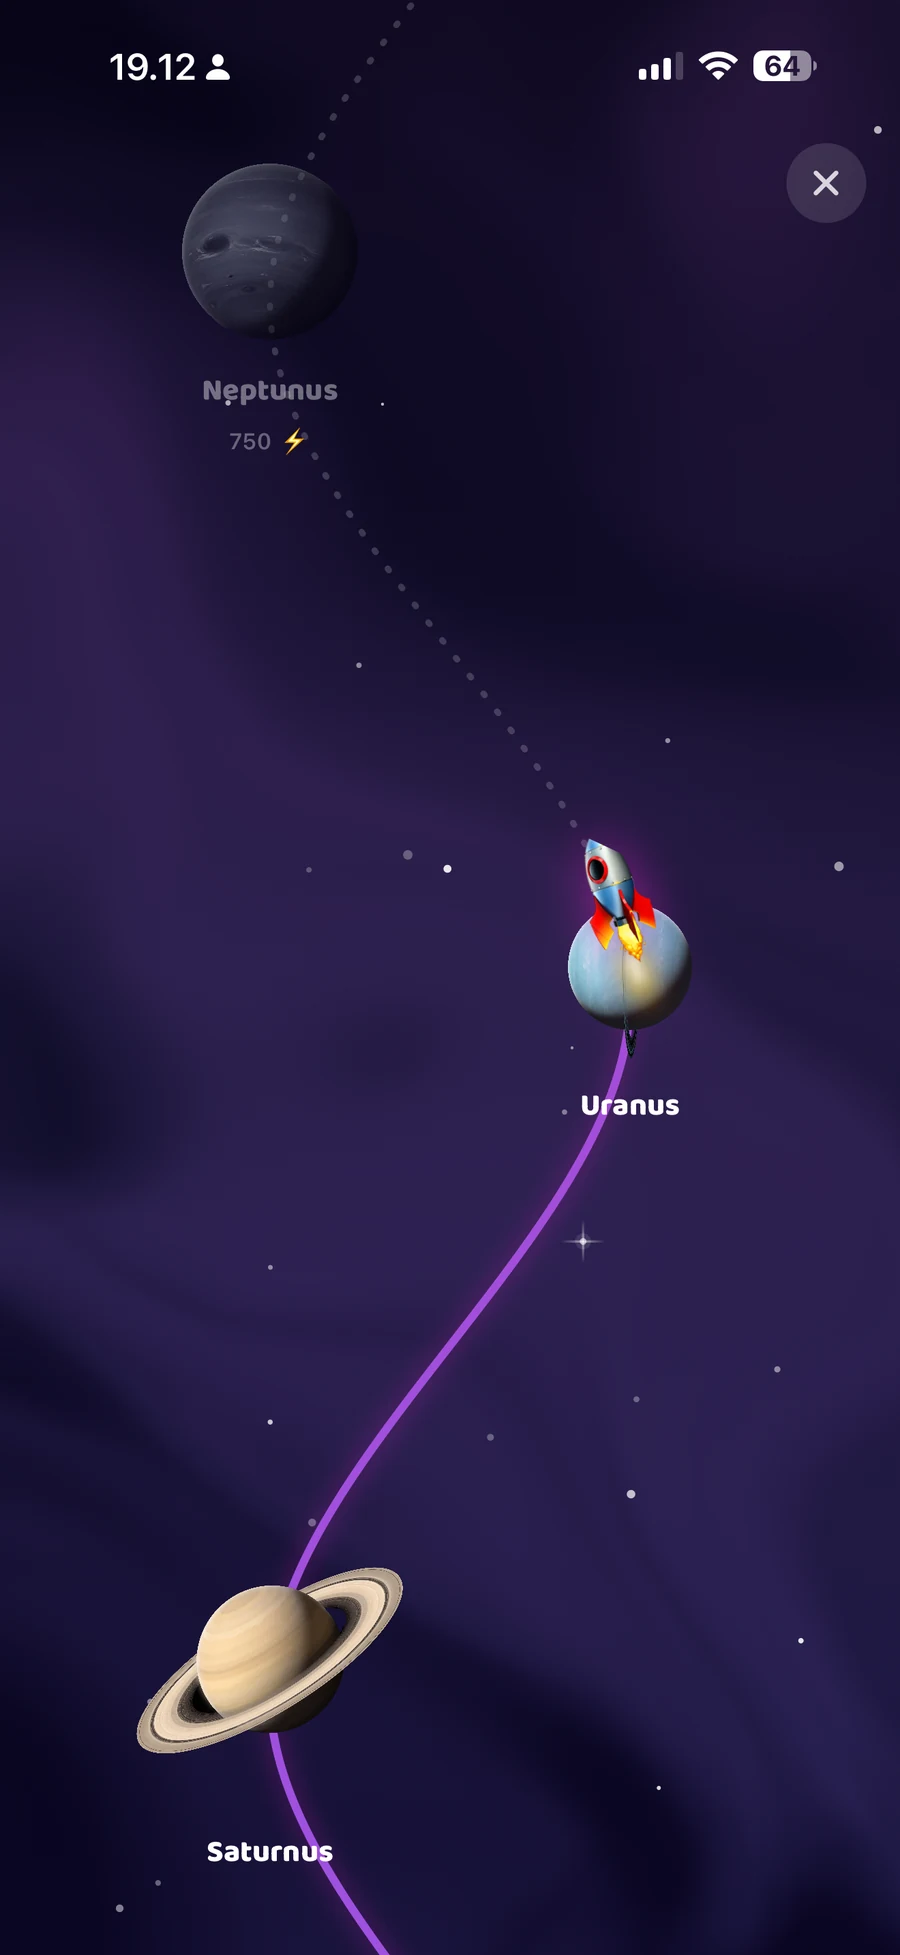
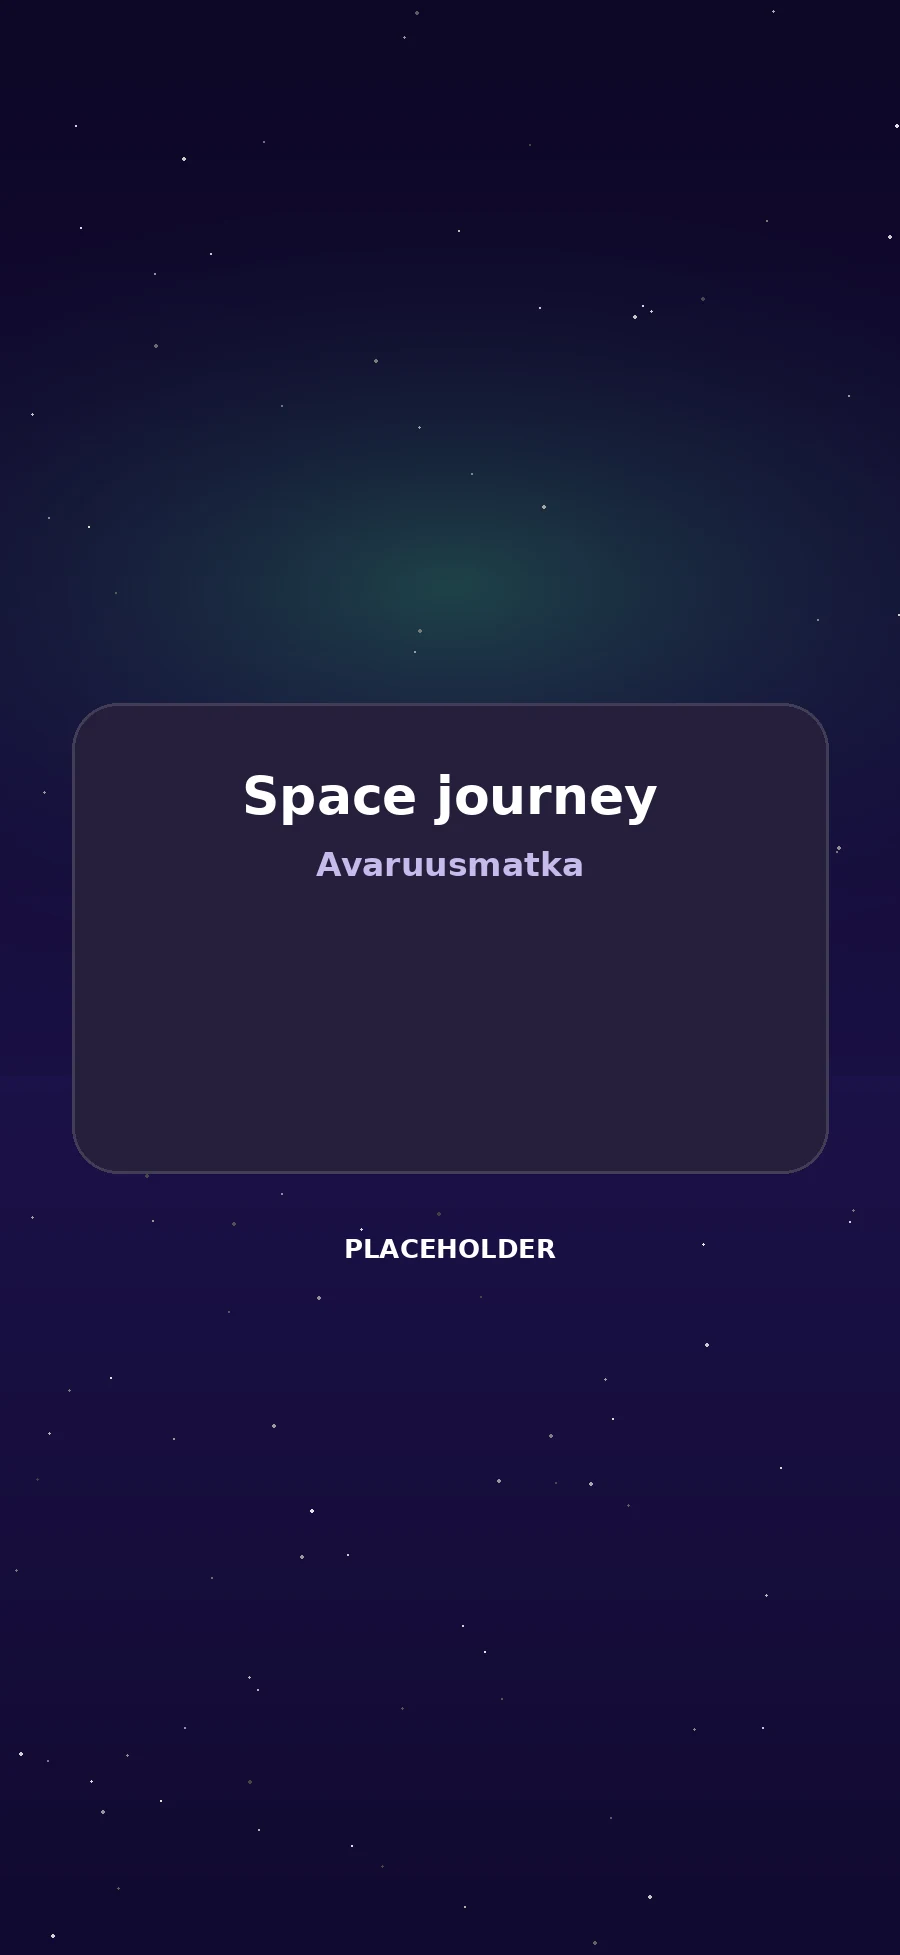
Update playstore

diff --git a/en/index.html b/en/index.html
@@ -29,7 +29,7 @@
 <link rel="preconnect" href="https://fonts.googleapis.com">
 <link rel="preconnect" href="https://fonts.gstatic.com" crossorigin>
 <link href="https://fonts.googleapis.com/css2?family=Baloo+2:wght@600;700;800&display=swap" rel="stylesheet">
-<link rel="stylesheet" href="../assets/style.css?v=29">
+<link rel="stylesheet" href="../assets/style.css?v=31">
 <script type="application/ld+json">
 {
   "@context": "https://schema.org",
@@ -63,16 +63,6 @@
     </a>
 
     <span class="header-spacer"></span>
-
-    <nav class="lang" aria-label="Language">
-      <a href="/" hreflang="fi">FI</a>
-      <a href="/en/" aria-current="page" hreflang="en">EN</a>
-    </nav>
-
-    <a class="btn btn-small is-pending" href="#" role="button" aria-disabled="true"
-       data-appstore data-live="App Store">
-      <span class="btn-label">App Store</span>
-    </a>
   </div>
 </header>
 
@@ -88,12 +78,15 @@
         Will·e turns playing into studying, and studying into something worth playing.
       </p>
 
-      <div class="store-row reveal">
-        <a class="btn is-pending" href="#" role="button" aria-disabled="true"
-           data-appstore data-live="Download on the App Store">
-          <span class="btn-label">Coming autumn 2026</span>
+      <div class="store-badges reveal">
+        <a class="store-badge" href="https://apps.apple.com/app/id6776587160" rel="noopener">
+          <img src="../assets/badges/appstore-en.svg" height="56" alt="Download on the App Store">
+        </a>
+        <a class="store-badge" href="https://play.google.com/store/apps/details?id=fi.wille.wille" rel="noopener">
+          <img src="../assets/badges/googleplay-en.png" height="56" alt="Get it on Google Play">
         </a>
       </div>
+      <p class="store-tagline reveal"><span>Start for free</span></p>
 
       <div class="hero-figure hero-figure--anim glow-wrap reveal">
         <canvas class="hero-canvas" width="912" height="1808" aria-hidden="true"></canvas>
@@ -322,6 +315,6 @@
   </div>
 </footer>
 
-<script src="../assets/site.js?v=29"></script>
+<script src="../assets/site.js?v=31"></script>
 </body>
 </html>

diff --git a/index.html b/index.html
@@ -53,7 +53,7 @@
 <link rel="preconnect" href="https://fonts.googleapis.com">
 <link rel="preconnect" href="https://fonts.gstatic.com" crossorigin>
 <link href="https://fonts.googleapis.com/css2?family=Baloo+2:wght@600;700;800&display=swap" rel="stylesheet">
-<link rel="stylesheet" href="assets/style.css?v=30">
+<link rel="stylesheet" href="assets/style.css?v=31">
 <script type="application/ld+json">
 {
   "@context": "https://schema.org",
@@ -93,16 +93,6 @@
     </a>
 
     <span class="header-spacer"></span>
-
-    <nav class="lang" aria-label="Kieli">
-      <a href="/" aria-current="page" hreflang="fi">FI</a>
-      <a href="/en/" hreflang="en">EN</a>
-    </nav>
-
-    <a class="btn btn-small is-pending" href="#" role="button" aria-disabled="true"
-       data-appstore data-live="App Store">
-      <span class="btn-label">App Store</span>
-    </a>
   </div>
 </header>
 
@@ -118,12 +108,15 @@
         Will·e muuttaa pelaamisen opiskeluksi ja opiskelun hauskaksi pelaamiseksi.
       </p>
 
-      <div class="store-row reveal">
-        <a class="btn is-pending" href="#" role="button" aria-disabled="true"
-           data-appstore data-live="Lataa App Storesta">
-          <span class="btn-label">Tulossa syksyllä 2026</span>
+      <div class="store-badges reveal">
+        <a class="store-badge" href="https://apps.apple.com/app/id6776587160" rel="noopener">
+          <img src="assets/badges/appstore-fi.svg" height="56" alt="Lataa App Storesta">
+        </a>
+        <a class="store-badge" href="https://play.google.com/store/apps/details?id=fi.wille.wille" rel="noopener">
+          <img src="assets/badges/googleplay-fi.png" height="56" alt="Lataa se Google Playsta">
         </a>
       </div>
+      <p class="store-tagline reveal"><span>Aloita ilmaiseksi</span></p>
 
       <div class="hero-figure hero-figure--anim glow-wrap reveal">
         <canvas class="hero-canvas" width="912" height="1808" aria-hidden="true"></canvas>
@@ -352,6 +345,6 @@
   </div>
 </footer>
 
-<script src="assets/site.js?v=30"></script>
+<script src="assets/site.js?v=31"></script>
 </body>
 </html>

diff --git a/assets/style.css b/assets/style.css
@@ -960,3 +960,51 @@ p { margin: 0; }
 }
 
 .hero-canvas { position: relative; z-index: 1; }
+
+
+/* --- 23. Kauppamerkit herossa ------------------------------------------- */
+/* Viralliset App Store- ja Google Play -merkit. Merkkejä ei saa muokata,
+   joten kultahehku tehdään drop-shadow-suotimella merkin ympärille —
+   se seuraa merkin pyöristettyjä kulmia, ei suorakulmiota. Molemmat
+   samankorkuisia, kuten kauppojen ohjeet edellyttävät. */
+.store-badges {
+  display: flex;
+  flex-wrap: wrap;
+  justify-content: center;
+  gap: 14px;
+  margin-top: 30px;
+}
+.store-badge {
+  display: block;
+  border-radius: 10px;
+  transition: transform .2s ease, filter .2s ease;
+  filter: drop-shadow(0 0 14px rgba(255, 190, 35, .38))
+          drop-shadow(0 0 32px rgba(255, 165, 20, .22));
+}
+.store-badge img {
+  display: block;
+  height: clamp(40px, 11.4vw, 56px);
+  width: auto;
+}
+.store-badge:hover {
+  transform: translateY(-2px);
+  filter: drop-shadow(0 0 18px rgba(255, 190, 35, .55))
+          drop-shadow(0 0 40px rgba(255, 165, 20, .32));
+}
+.store-tagline {
+  display: flex;
+  align-items: center;
+  justify-content: center;
+  gap: 14px;
+  margin-top: 18px;
+  font-size: 15px;
+  color: var(--text-2);
+}
+.store-tagline::before,
+.store-tagline::after {
+  content: "";
+  width: 44px;
+  height: 1px;
+  background: currentColor;
+  opacity: .45;
+}

diff --git a/assets/site.js b/assets/site.js
@@ -197,12 +197,12 @@ var APP_STORE_URL = "https://apps.apple.com/app/id6776587160";
   })();
 
   /* --- 4. Kielivalinnan muistaminen -------------------------------------- */
-  /* Kun kävijä klikkaa FI tai EN, valinta talletetaan ja juurisivun
+  /* Kun kävijä vaihtaa kieltä (alatunnisteen In English / Suomeksi), valinta talletetaan ja juurisivun
      automaattinen kieliohjaus noudattaa sitä jatkossa. Kirjoitus on
      synkroninen, joten se ehtii tallentua ennen siirtymää. */
 
   Array.prototype.forEach.call(
-    document.querySelectorAll(".lang a[hreflang]"),
+    document.querySelectorAll(".lang a[hreflang], .footer-links a[hreflang]"),
     function (a) {
       a.addEventListener("click", function () {
         try { localStorage.setItem("wille-kieli", a.getAttribute("hreflang")); }

diff --git a/404.html b/404.html
@@ -15,7 +15,7 @@
 <link rel="preconnect" href="https://fonts.googleapis.com">
 <link rel="preconnect" href="https://fonts.gstatic.com" crossorigin>
 <link href="https://fonts.googleapis.com/css2?family=Baloo+2:wght@600;700;800&display=swap" rel="stylesheet">
-<link rel="stylesheet" href="/assets/style.css?v=30">
+<link rel="stylesheet" href="/assets/style.css?v=31">
 
 <style>
   /* Vain tällä sivulla: sisältö keskelle näyttöä pystysuunnassa. */
@@ -103,6 +103,6 @@
   </div>
 </footer>
 
-<script src="/assets/site.js?v=30"></script>
+<script src="/assets/site.js?v=31"></script>
 </body>
 </html>

diff --git a/delete-account/index.html b/delete-account/index.html
@@ -27,7 +27,7 @@
 <link rel="preconnect" href="https://fonts.googleapis.com">
 <link rel="preconnect" href="https://fonts.gstatic.com" crossorigin>
 <link href="https://fonts.googleapis.com/css2?family=Baloo+2:wght@600;700;800&display=swap" rel="stylesheet">
-<link rel="stylesheet" href="/assets/style.css?v=30">
+<link rel="stylesheet" href="/assets/style.css?v=31">
 </head>
 
 <body class="legal-page">
@@ -149,6 +149,6 @@
   </div>
 </footer>
 
-<script src="/assets/site.js?v=30"></script>
+<script src="/assets/site.js?v=31"></script>
 </body>
 </html>

diff --git a/poista-tili/index.html b/poista-tili/index.html
@@ -27,7 +27,7 @@
 <link rel="preconnect" href="https://fonts.googleapis.com">
 <link rel="preconnect" href="https://fonts.gstatic.com" crossorigin>
 <link href="https://fonts.googleapis.com/css2?family=Baloo+2:wght@600;700;800&display=swap" rel="stylesheet">
-<link rel="stylesheet" href="/assets/style.css?v=30">
+<link rel="stylesheet" href="/assets/style.css?v=31">
 </head>
 
 <body class="legal-page">
@@ -147,6 +147,6 @@
   </div>
 </footer>
 
-<script src="/assets/site.js?v=30"></script>
+<script src="/assets/site.js?v=31"></script>
 </body>
 </html>

diff --git a/kayttoehdot.html b/kayttoehdot.html
@@ -27,7 +27,7 @@
 <link rel="preconnect" href="https://fonts.googleapis.com">
 <link rel="preconnect" href="https://fonts.gstatic.com" crossorigin>
 <link href="https://fonts.googleapis.com/css2?family=Baloo+2:wght@600;700;800&display=swap" rel="stylesheet">
-<link rel="stylesheet" href="assets/style.css?v=30">
+<link rel="stylesheet" href="assets/style.css?v=31">
 </head>
 
 <body class="legal-page">
@@ -173,6 +173,6 @@
   </div>
 </footer>
 
-<script src="assets/site.js?v=30"></script>
+<script src="assets/site.js?v=31"></script>
 </body>
 </html>

diff --git a/privacy.html b/privacy.html
@@ -27,7 +27,7 @@
 <link rel="preconnect" href="https://fonts.googleapis.com">
 <link rel="preconnect" href="https://fonts.gstatic.com" crossorigin>
 <link href="https://fonts.googleapis.com/css2?family=Baloo+2:wght@600;700;800&display=swap" rel="stylesheet">
-<link rel="stylesheet" href="assets/style.css?v=30">
+<link rel="stylesheet" href="assets/style.css?v=31">
 </head>
 
 <body class="legal-page">
@@ -280,6 +280,6 @@
   </div>
 </footer>
 
-<script src="assets/site.js?v=30"></script>
+<script src="assets/site.js?v=31"></script>
 </body>
 </html>

diff --git a/terms.html b/terms.html
@@ -27,7 +27,7 @@
 <link rel="preconnect" href="https://fonts.googleapis.com">
 <link rel="preconnect" href="https://fonts.gstatic.com" crossorigin>
 <link href="https://fonts.googleapis.com/css2?family=Baloo+2:wght@600;700;800&display=swap" rel="stylesheet">
-<link rel="stylesheet" href="assets/style.css?v=30">
+<link rel="stylesheet" href="assets/style.css?v=31">
 </head>
 
 <body class="legal-page">
@@ -169,6 +169,6 @@
   </div>
 </footer>
 
-<script src="assets/site.js?v=30"></script>
+<script src="assets/site.js?v=31"></script>
 </body>
 </html>

diff --git a/tietosuoja.html b/tietosuoja.html
@@ -27,7 +27,7 @@
 <link rel="preconnect" href="https://fonts.googleapis.com">
 <link rel="preconnect" href="https://fonts.gstatic.com" crossorigin>
 <link href="https://fonts.googleapis.com/css2?family=Baloo+2:wght@600;700;800&display=swap" rel="stylesheet">
-<link rel="stylesheet" href="assets/style.css?v=30">
+<link rel="stylesheet" href="assets/style.css?v=31">
 </head>
 
 <body class="legal-page">
@@ -286,6 +286,6 @@
   </div>
 </footer>
 
-<script src="assets/site.js?v=30"></script>
+<script src="assets/site.js?v=31"></script>
 </body>
 </html>
